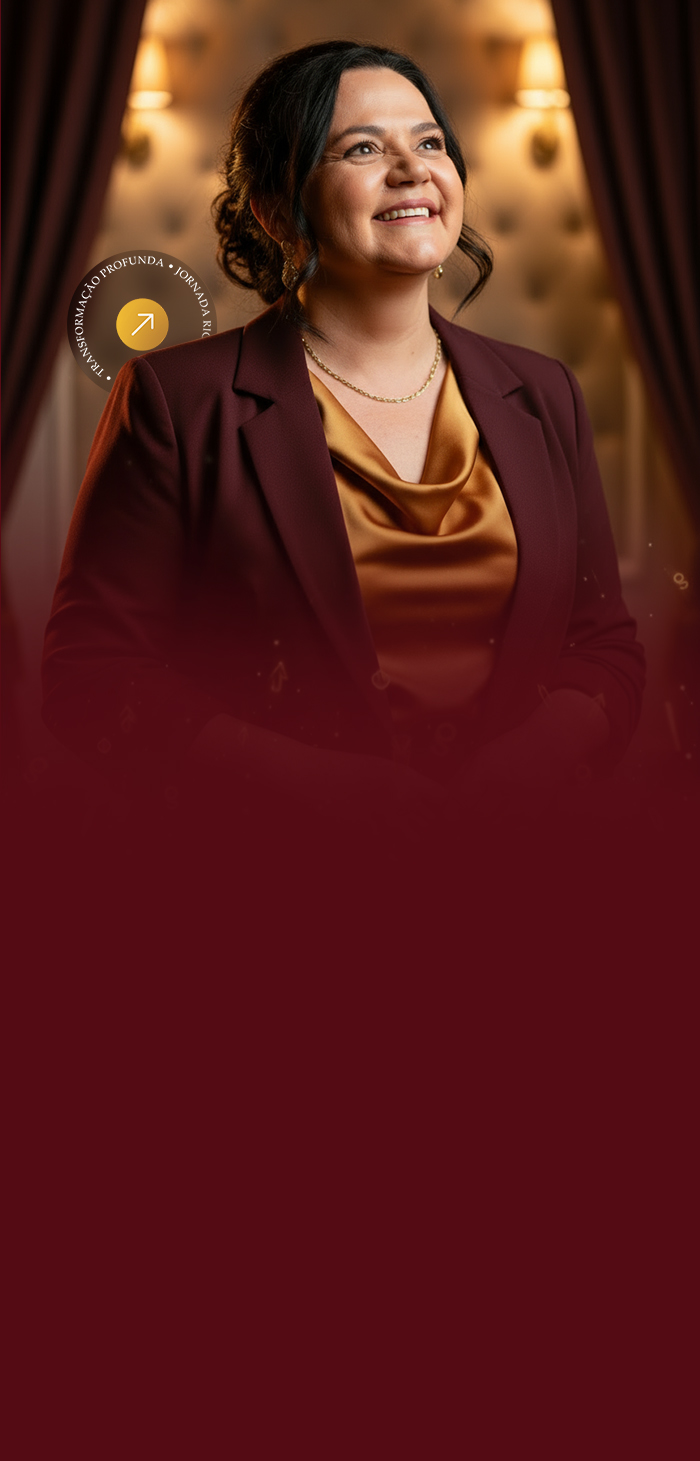
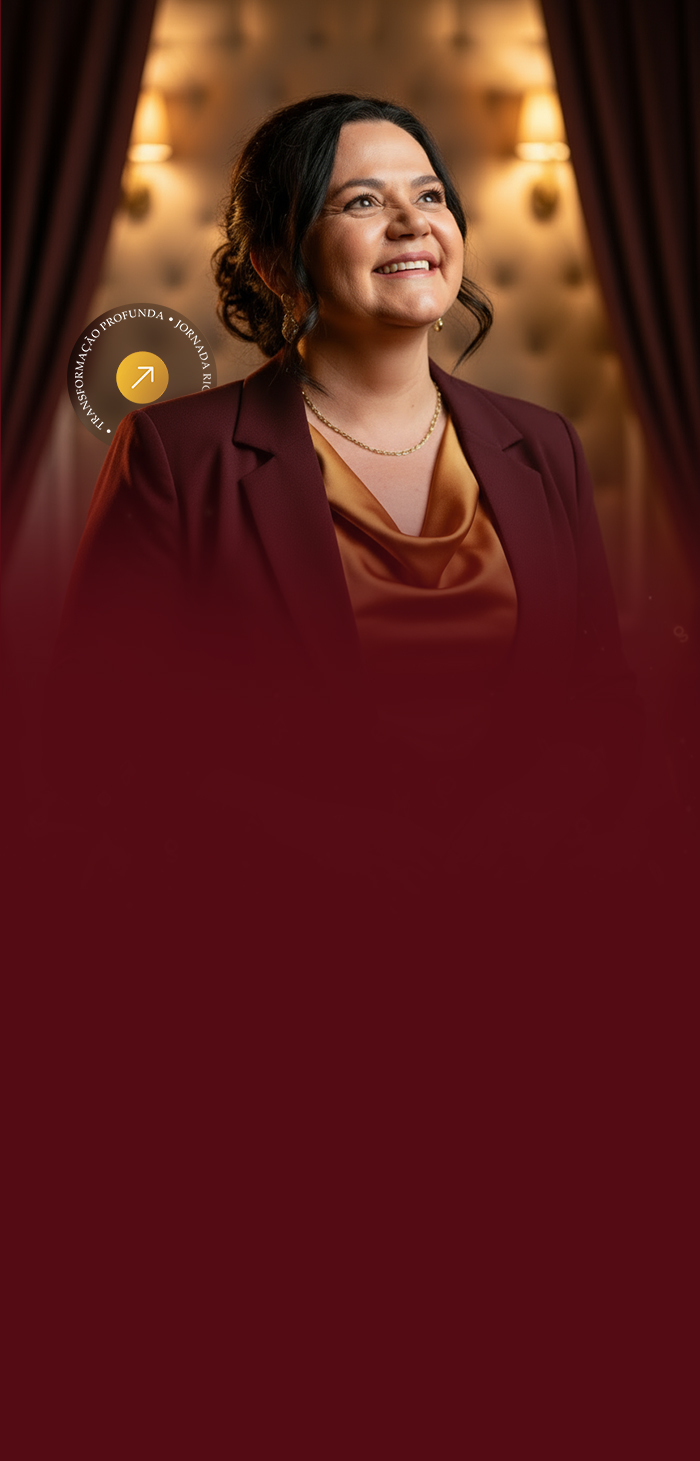
Add files via upload

diff --git a/index.html b/index.html
@@ -33,7 +33,7 @@
                     Reencontre sua essência e prospere com propósito.
                 </h1>
                 <p class="hero-description">
-                    A Jornada Rica é uma mentoria exclusiva criada para mulheres que desejam clareza, confiança e equilíbrio para transformar seus sonhos em realizações.
+                    A Jornada Rica é uma mentoria exclusiva para mulheres que desejam clareza, confiança e equilíbrio para transformar seus sonhos em realizações.
                     Nesta Black Friday, entre para a primeira turma com um valor especial e inicie sua caminhada de prosperidade interior e exterior.
                 </p>
                 <a href="#oferta" class="cta-button">
@@ -50,7 +50,7 @@
 
          <section id="sobre" class="section-dark fade-in">
             <div class="container small-container">
-                <h2><font color="DA8825">Reencontrar-se</font> é o primeiro passo para prosperar.</h2>
+                <h2><font color="DA8825">Reenconectar</font> é o primeiro passo para prosperar.</h2>
                 <p>A Jornada Rica nasceu do desejo de ajudar mulheres a <strong>reconectarem-se com quem realmente são</strong>, superando crenças que aprisionam e resgatando o poder de agir com consciência e amor.</p>
                 
                 <p class="bordered-text-box">Aqui, você encontra um espaço seguro de autoconhecimento, fortalecimento emocional e aprendizado prático, conduzido com leveza, profundidade e propósito.</p> 
@@ -150,50 +150,55 @@
                     </div>
 
                 <p class="section-subtext">
-                    São <strong>encontros profundos, práticos e inspiradores</strong>, que unem técnica, emoção e propósito.
-                    Você receberá ferramentas para aplicar no seu dia a dia e acompanhar sua evolução em cada fase.
+                    Serão <strong>4 meses de mentoria</strong> com acompanhamento próximo para desbloquear sua prosperidade. Teremos <strong>encontros profundos, práticos e inspiradores</strong> para você sair da escassez, entrar em uma vida de abundância e acompanhar sua evolução em cada fase.
                 </p>
             </div>
         </section>
 
         <section id="bonus" class="section-light fade-in">
-            <div class="container">
-                <div class="two-column-layout">
-                    <div class="column-text">
-                        <h2>Experiência completa da Jornada Rica.</h2>
-                        <p>Ao garantir sua vaga nesta Black Friday, você também recebe:</p>
-                        
-                        <ul class="styled-list icon-check">
-                            <li>
-                                <div class="bonus-item-content">
-                                    <strong><font color="DA8825">Planner físico e digital</font></strong>
-                                    <span>Para acompanhar sua rotina e metas.</span>
-                                </div>
-                            </li>
-                            <li>
-                                <div class="bonus-item-content">
-                                    <strong><font color="DA8825">Livro físico + digital</font></strong>
-                                    <span>Reflexões e exercícios da mentoria.</span>
-                                </div>
-                            </li>
-                            <li>
-                                <div class="bonus-item-content">
-                                    <strong><font color="DA8825">Kit exclusivo Jornada Rica</font></strong>
-                                    <span>Canetas, caderno e caixa especial.</span>
-                                </div>
-                            </li>
-                        </ul>
-                        <p>Tudo pensado para tornar sua jornada ainda mais inspiradora e prática.</p>
-                    </div>
-                    <div class="column-image">
-                        <div class="image-placeholder">
-                            <img src="img/kit.png" alt="Kit Jornada Rica com Planner, Livro e Caixa" style="width:100%; height:100%;">
-                            
+    <div class="container">
+        <div class="two-column-layout">
+            <div class="column-text">
+                <h2>O que você recebe na Jornada.</h2>
+                <p>Sua mentoria inclui os seguintes materiais de apoio 100% digitais:</p>
+                
+                <ul class="styled-list icon-check">
+                    <li>
+                        <div class="bonus-item-content">
+                            <strong><font color="DA8825">Planner digital</font></strong>
+                            <span>Para acompanhar sua rotina e metas.</span>
                         </div>
-                    </div>
+                    </li>
+                    <li>
+                        <div class="bonus-item-content">
+                            <strong><font color="DA8825">Livro digital</font></strong>
+                            <span>Reflexões e exercícios da mentoria.</span>
+                        </div>
+                    </li>
+                </ul>
+                
+                <p style="margin-top: 1.5rem;">E como <strong>BÔNUS ESPECIAL DE BLACK FRIDAY</strong>, você também receberá em sua casa o:</p>
+
+                <ul class="styled-list icon-check" style="margin-top: 1rem; margin-bottom: 1.5rem;">
+                    
+                    <li class="bonus-highlight-box"> 
+                        <div class="bonus-item-content">
+                            <strong>Kit exclusivo Jornada Rica</strong>
+                            <span>Canetas, caderno e caixa especial.</span>
+                        </div>
+                    </li>
+                    </ul>
+                <p>Tudo pensado para tornar sua jornada ainda mais inspiradora e prática.</p>
+            </div>
+            <div class="column-image">
+                <div class="image-placeholder">
+                    <img src="img/kit.png" alt="Kit Jornada Rica com Planner, Livro e Caixa" style="width:100%; height:100%;">
+                    
                 </div>
             </div>
-        </section>
+        </div>
+    </div>
+</section>
 
         <section id="oferta" class="section-dark section-cta fade-in">
             <div class="container small-container">
@@ -227,7 +232,7 @@
                         <p><strong>Flaviana Vaz</strong> é mentora de desenvolvimento pessoal, especialista em PNL e comportamento humano.</p>
                         <p>Há anos conduz mulheres em processos de <strong>autoconhecimento e prosperidade emocional</strong>, unindo espiritualidade, ciência e prática transformadora.</p>
                         <p class="support-phrase gold">
-                           Sua missão é simples: ajudar você a reconectar-se com o que tem de mais valioso, <strong>sua própria essência</strong>.
+                           Sua missão é simples: ajudar você a reconectar-se com o que tem de mais valioso — <strong>sua própria essência</strong>.
                         </p>
                     </div>
                 </div>

diff --git a/style.css b/style.css
@@ -266,6 +266,7 @@ section#sobre {
 
 
 /* --- 1. HERO (Layout "NO TOPO" - Corrigido) --- */
+/* --- 1. HERO (Layout "NO TOPO" - Corrigido) --- */
 .hero {
     position: relative;
     width: 100%;
@@ -280,10 +281,12 @@ section#sobre {
     /* Imagem de fundo para DESKTOP (como na referência) */
     background-image:  url('img/bg-desktop.jpg');
     background-size: cover;
-    background-position: center;
+    
+    /* MUDANÇA AQUI 👇 */
+    background-position: right center; /* Antes era 'center' */
+    
     background-repeat: no-repeat;
 }
-
 /* Div da imagem mobile (oculta no desktop) */
 .hero-image-mobile { 
     display: none; 
@@ -319,7 +322,7 @@ section#sobre {
 }
 
 .hero-description {
-    font-size: 1rem;
+    font-size: 1.2rem;
     color: rgba(185, 126, 67, 0.9);
 }
 
@@ -586,7 +589,7 @@ section#sobre {
 
     .hero-container {
         /* [SUA REQUISIÇÃO] 400px de padding NO TOPO */
-        padding: 400px 1.5rem 4rem 1.5rem; 
+        padding: 330px 1rem 0rem 1rem; 
         max-width: 100%;
         margin: 0;
         position: relative;
@@ -619,8 +622,9 @@ section#sobre {
     }
     
     .hero-description {
-        font-size: 1.1rem;
-        
+        font-size: 1rem;
+          line-height: 1.3; /* 1.6 vezes o tamanho da fonte */
+margin-bottom: 0.1rem;
     }
 
     .cta-button {
@@ -798,5 +802,45 @@ section#sobre {
     /* Centraliza a frase de apoio */
     #para-quem .highlight-box {
         text-align: center;
+    }
+}
+
+/* --- Destaque do Bônus (Kit Físico) --- */
+.bonus-highlight-box {
+    background-color: #DA8825; /* Laranja da paleta */
+    border-radius: 8px; /* Cantos arredondados */
+    padding: 1.2rem 1.5rem; /* Espaçamento interno */
+    margin-top: 0.5rem; /* Leve espaço acima */
+    
+    /* Remove o ícone de check (::before) deste item específico */
+    list-style: none; 
+}
+
+.bonus-highlight-box::before {
+    display: none; /* Esconde o '✔' */
+}
+
+/* Força os textos dentro do box a ficarem brancos */
+.bonus-highlight-box .bonus-item-content,
+.bonus-highlight-box .bonus-item-content strong,
+.bonus-highlight-box .bonus-item-content span {
+    color: #FFFFFF !important; /* Texto branco */
+}
+
+/* Ajusta a margem do <strong> (que não é mais laranja) */
+.bonus-highlight-box .bonus-item-content strong {
+     margin-right: 0.5em; 
+}
+
+/* Ajustes mobile para o box (herdado da regra anterior) */
+@media (max-width: 480px) {
+    .bonus-highlight-box .bonus-item-content {
+        flex-direction: column;
+        align-items: flex-start;
+    }
+    
+    .bonus-highlight-box .bonus-item-content strong {
+        margin-right: 0;
+        margin-bottom: 2px;
     }
 }
